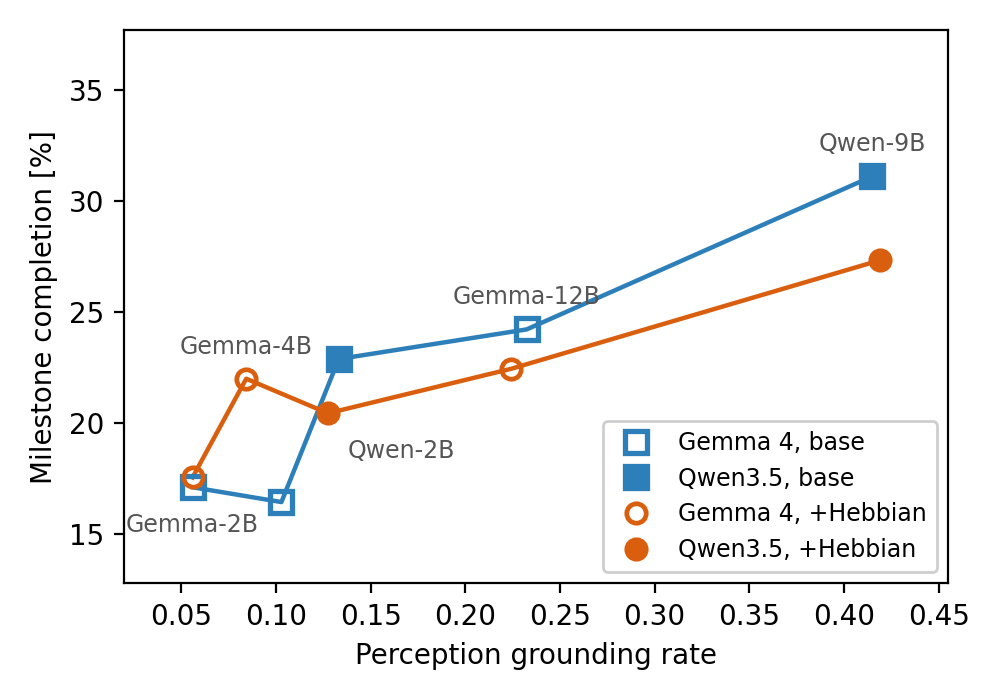
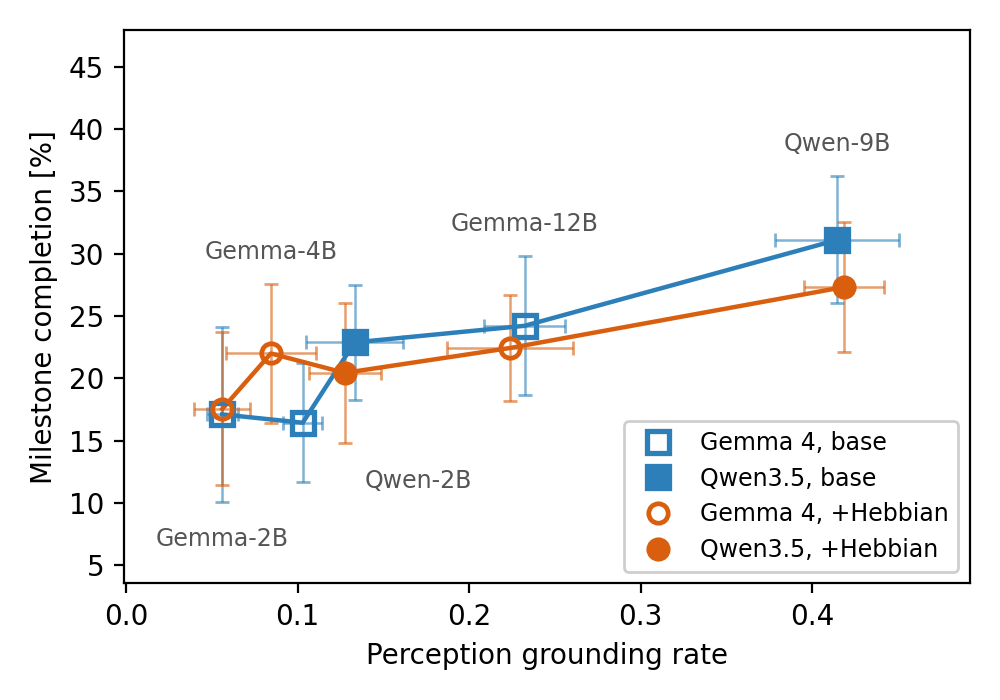
Perception figure: --errorbars (±1 std, milestones over pooled episodes, grounding over seeds); paper version uses xy

diff --git a/scripts/make_pareto_perception_fig.py b/scripts/make_pareto_perception_fig.py
@@ -68,7 +68,10 @@ def gather(data, beliefs, sizes):
     return out
 
 
-def draw(rows, out_png: Path):
+def draw(rows, out_png: Path, errorbars: str = "none"):
+    """errorbars: "none", "y" (milestone std over pooled episodes) or "xy"
+    (also the grounding std over seeds). Thin bars in the arm colour behind
+    the markers, no legend entry; labels clear the bar tops."""
     import matplotlib
     matplotlib.use("Agg")
     matplotlib.rcdefaults()          # the social figure runs on the defaults
@@ -79,10 +82,18 @@ def draw(rows, out_png: Path):
     # One line per arm through every model, sorted by x; family on the fill.
     for arm in ("base", "hebbian"):
         st = ARM_STYLE[arm]
-        pts = sorted(((r[arm]["x"][0], r[arm]["y"][0], r["family"])
+        pts = sorted(((r[arm]["x"][0], r[arm]["y"][0], r["family"],
+                       r[arm]["x"][1], r[arm]["y"][1])
                       for r in rows.values()), key=lambda t: t[0])
         ax.plot([p[0] for p in pts], [p[1] for p in pts], color=st["color"],
                 ls="-", lw=1.6, zorder=2)
+        if errorbars != "none":
+            ax.errorbar([p[0] for p in pts], [p[1] for p in pts],
+                        yerr=[p[4] for p in pts],
+                        xerr=[p[3] for p in pts] if errorbars == "xy" else None,
+                        fmt="none", ecolor=st["color"], elinewidth=0.9,
+                        capsize=2.5, alpha=0.6, zorder=1)
+            all_y += [p[1] + p[4] for p in pts] + [p[1] - p[4] for p in pts]
         for family in dict.fromkeys(p[2] for p in pts):
             fp = [p for p in pts if p[2] == family]
             open_marker = FAMILY_OPEN.get(family, True)
@@ -105,22 +116,25 @@ def draw(rows, out_png: Path):
         xv = r["base"]["x"][0]          # both arms share the model's x scale
         hi_arm = max(("base", "hebbian"), key=lambda a: r[a]["y"][0])
         lo_arm = min(("base", "hebbian"), key=lambda a: r[a]["y"][0])
+        e = 1.0 if errorbars != "none" else 0.0
+        y_hi = r[hi_arm]["y"][0] + e * r[hi_arm]["y"][1]
+        y_lo = r[lo_arm]["y"][0] - e * r[lo_arm]["y"][1]
         crowded = prev_x is not None and (xv - prev_x) < 0.10 * span
         if size in LABEL_BELOW:
             # The leftmost model's label would sit on the segment climbing
             # to its right neighbour; hang it under the lower arm instead.
             ax.annotate(SHORT_LABEL.get(size, size),
-                        (r[lo_arm]["x"][0], r[lo_arm]["y"][0]),
+                        (r[lo_arm]["x"][0], y_lo),
                         textcoords="offset points", xytext=(0, -16),
                         ha="center", fontsize=8.5, color="#555555", zorder=4)
         elif crowded:
             ax.annotate(SHORT_LABEL.get(size, size),
-                        (r[lo_arm]["x"][0], r[lo_arm]["y"][0]),
+                        (r[lo_arm]["x"][0], y_lo),
                         textcoords="offset points", xytext=(7, -16),
                         ha="left", fontsize=8.5, color="#555555", zorder=4)
         else:
             ax.annotate(SHORT_LABEL.get(size, size),
-                        (r[hi_arm]["x"][0], r[hi_arm]["y"][0]),
+                        (r[hi_arm]["x"][0], y_hi),
                         textcoords="offset points", xytext=(0, 9),
                         ha="center", fontsize=8.5, color="#555555", zorder=4)
         prev_x = xv
@@ -168,6 +182,9 @@ def main():
                              Path("analysis_qualitative/out_pareto/tables/beliefs.csv"),
                              Path("analysis_qualitative/out/tables/beliefs.csv")])
     ap.add_argument("--sizes", default="e2b,e4b,qwen2b,12b,qwen9b")
+    ap.add_argument("--errorbars", choices=("none", "y", "xy"), default="none",
+                    help="draw +-1 std: y = milestones over pooled episodes, "
+                         "xy = also grounding over seeds")
     ap.add_argument("--copy-to", type=Path, default=None,
                     help="also copy the PNG into this directory (paper/figures)")
     ap.add_argument("--image-tokens", type=int, default=280)
@@ -196,7 +213,7 @@ def main():
             r["hebbian"]["y"][1], r["hebbian"]["y"][0] - r["base"]["y"][0]))
 
     png = args.out_dir / "pareto_perception.png"
-    draw(rows, png)
+    draw(rows, png, args.errorbars)
     tex = args.out_dir / "pareto_perception_rows.tex"
     tex.write_text(tex_rows(rows), encoding="utf-8")
     print("wrote {}".format(tex))

diff --git a/.claude/skills/pareto-plots/SKILL.md b/.claude/skills/pareto-plots/SKILL.md
@@ -234,6 +234,9 @@ legend, the social y-headroom rule). Axis names as in the paper:
 "Perception grounding rate" (the word "strict" is dropped; the definition
 lives in sections/pareto_perception.tex) and "Milestone completion [%]".
 Also writes pareto_perception_rows.tex (the tab:pareto_perception rows).
+The paper version is `--errorbars xy` (±1 std: milestones over pooled
+episodes, grounding over seeds; thin bars in the arm colour, labels
+lifted to the bar tops). `--errorbars y` / none for slides.
 LABEL_BELOW hangs the leftmost model's label under its lower arm — the
 segment climbing to Gemma-4B crosses an above-label. Paper side: the new
 section is \input in results.tex before the RQ2 heading; tab:final_comparison
